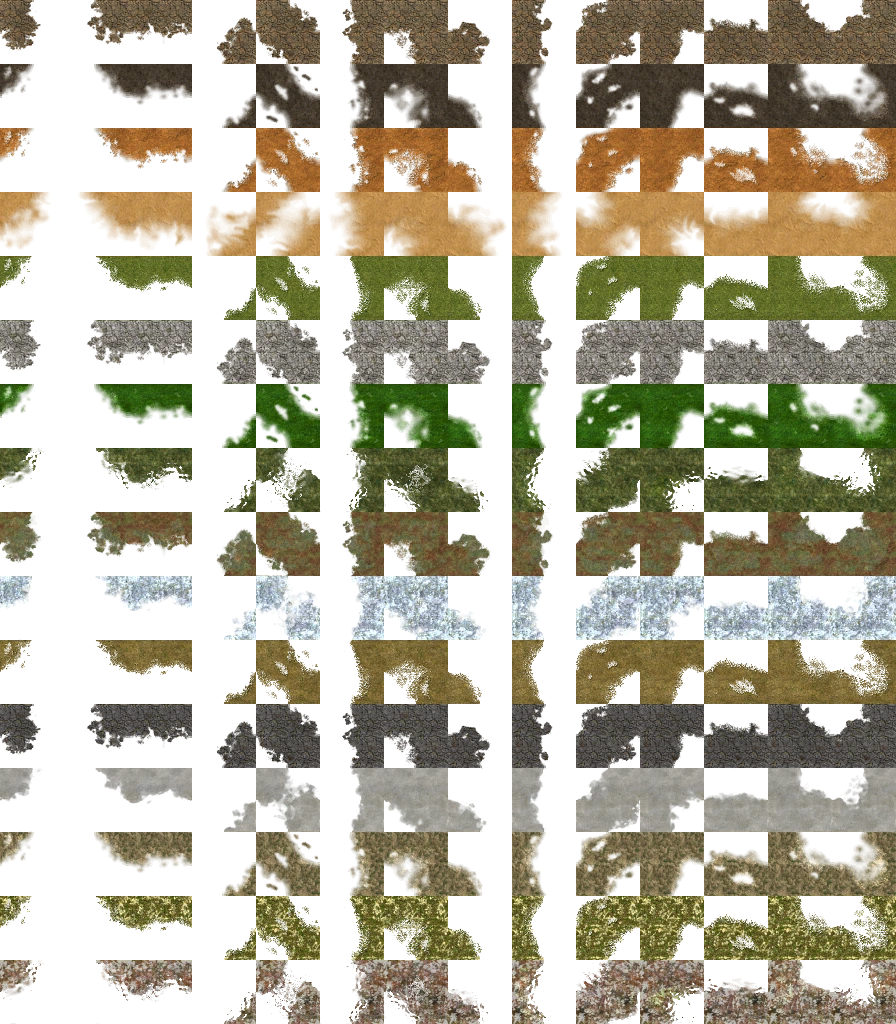
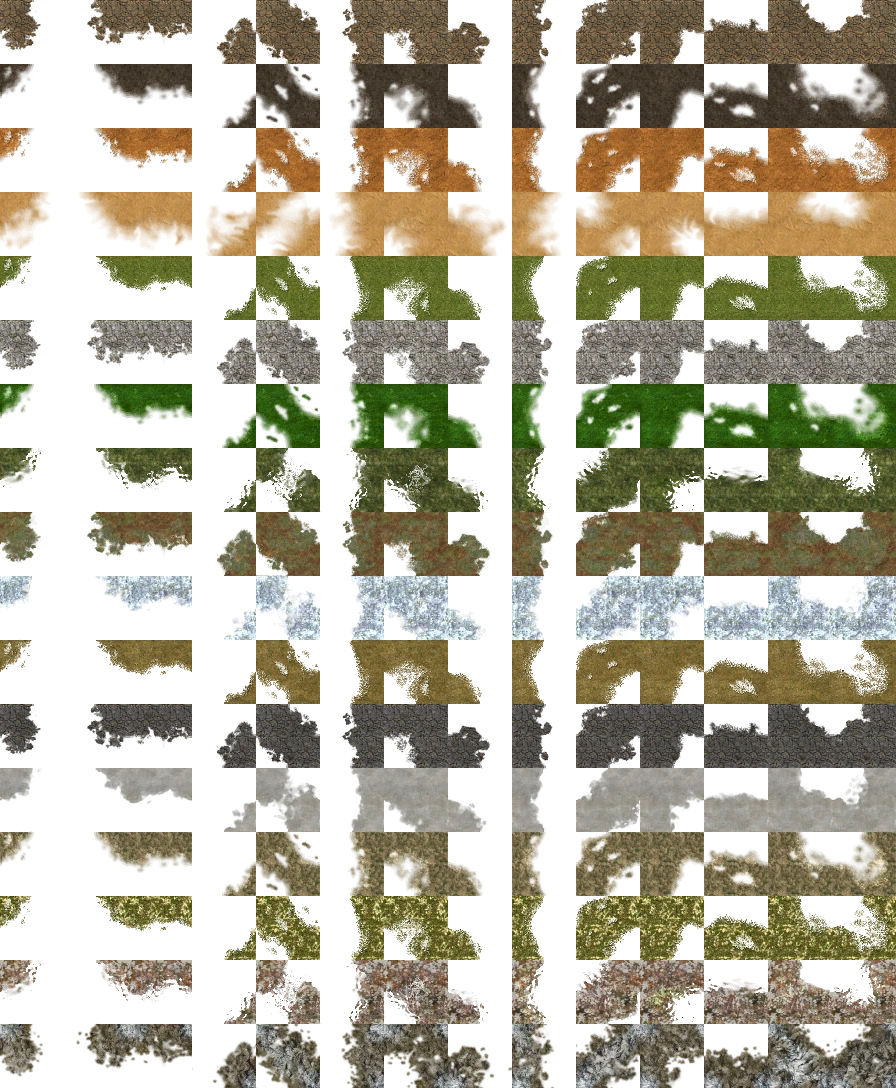
feat(web): bake PEAK as a blend layer; measure HILL out
Civ4 authors both relief types as terrain layers with their own blend art, and
both use the identical 14-cell land table - so neither needs new machinery.
They are not the same kind of art, though, and that decides what to do with
each. reliefArtEntries reads them off CIV4ArtDefines_Terrain.xml and shapes
them like terrain-art.json rows; the key is `PEAK`, matching Plot.plotType, so
a caller indexes it without a translation table.

PEAK is baked, as a 17th row. LayerOrder 100 - above every terrain in the game
including the eight water keys at 50-71. PeakBlend.dds is 1024x1024 (4x4 of
256px, the highest-resolution blend art in the tree) and its detail is
IceDetail: Civ4 paints a peak as snow-capped rock that REPLACES the ground
rather than tinting it. Cleanest corner mask measured anywhere - set corners
254.9, clear 0.7, against LushBlend's 240.4/0.5; interior cell alpha 246-254.

This is what will put real mountain ground under the billboard. At LayerOrder
100 a PEAK plot wins its own four corners and takes the interior cell, and its
neighbours take its blend cells, so the rock spills outward the way the
sprite's base sits.

HILL is deliberately excluded, and the measurement is the reason.
ART_DEF_TERRAIN_HILL exists with the same table and LayerOrder 30, but
HillBlend.dds is not a corner mask: mean alpha per cell runs 28-102 and its
INTERIOR cell reaches only 102 of 255, where PEAK's is 254 and every land
[…]

diff --git a/docs/land-blend-plan.md b/docs/land-blend-plan.md
@@ -129,8 +129,10 @@ Two findings worth keeping:
 
 - **`textures/iceblend.dds` is 512×1024 (128px cells)**, while `TERRAIN_PERMAFROST` binds the 64px
   `textures/land/IceBlend.dds`. A single-terrain resolution upgrade is available if it ever matters.
-- **`peakblend.dds` is 1024×1024 — 256px cells**, the highest in the tree. Unused: PEAK is relief and
-  a prop, not one of the `KEEP` terrains.
+- **`peakblend.dds` is 1024×1024 — 256px cells**, the highest in the tree. ~~Unused: PEAK is relief
+  and a prop, not one of the `KEEP` terrains.~~ **Wrong — it is now baked; see §5.3.** It is not one
+  of *our* `KEEP` terrains, but Civ4 gives it a full art define, the same 14-cell table, and
+  LayerOrder 100 — the top of the game.
 
 **Why the 64px ceiling is not the constraint it appears to be.** The base sheet supplies low-frequency
 colour and the corner SHAPE; all the visible grain comes from the `<Detail>` texture, and **40 of
@@ -255,6 +257,45 @@ the land sheet. Baking water into this sheet would draw the same vertex twice, f
   never resolve, so "has gaps ⇒ stale" would thrash forever — exactly the trap §6 records. The caller
   stores the keys and re-bakes only when one *resolves*, which is the `_tshoreGaps` contract.
 
+### 5.3 Relief: PEAK is a blend layer, HILL is a wash
+
+Relief is `Plot.plotType` (FLAT/HILL/PEAK), orthogonal to the terrain key — a 3D prop since P4b and a
+hand-rolled recolour in the 2D bake (`plots.mjs`: HILL `×1.14 + 8`, PEAK averaged toward 150,152,158).
+Civ4 authors both as terrain layers with their own blend art, and **both use the identical 14-cell
+land table**, so neither needs new machinery. But they are not the same kind of art, and the
+difference decides what to do with each.
+
+**PEAK — baked, as a 17th row.** LayerOrder **100**, above every terrain in the game including the
+eight water keys at 50–71. `PeakBlend.dds` is 1024×1024 (4×4 of 256px, the highest-resolution blend
+art in the tree) and its detail is **IceDetail** — Civ4 paints a peak as snow-capped rock that
+REPLACES the ground rather than tinting it. Its corner mask is the cleanest measured anywhere: set
+corners **254.9**, clear corners **0.7** (LushBlend, the reference, is 240.4/0.5). Its interior cell
+is alpha 246–254.
+
+This is what puts real mountain ground under the billboard: at LayerOrder 100 a PEAK plot wins all
+four of its own corners, so it takes the interior cell, and its neighbours take its blend cells —
+the rock spills outward the way the sprite's base sits. That should let §8's `PEAK_GROUP.baseFade`
+question be reopened, since the billboard would then meet peak ground instead of grassland.
+
+The 256px cells sample down to the sheet's 64 and lose nothing visible — the blend pass draws at
+12–32 px/plot, so even 64 is oversampled 2–5× (same argument as §2's LoD note).
+
+**HILL — deliberately excluded, and the measurement is the reason.** `ART_DEF_TERRAIN_HILL` exists
+with the same table and LayerOrder 30, but `Land/HillBlend.dds` is **not a corner mask**. Mean alpha
+per cell runs 28–102, and its INTERIOR cell reaches only **102 of 255** where PEAK's is 254 and every
+land terrain's is opaque. Scored like every other atlas it binds **0 of 14** configs — its "set"
+corners peak at alpha 25. Civ4 authors a hill as a translucent **wash over whatever terrain the plot
+already has** (a grassland hill is still grassland), where a peak replaces the ground.
+
+So HILL must **not** own corners either. A hill plot's ground *is* its base terrain, so it should keep
+contributing that terrain to the ownership contest exactly as it does today. Giving HILL its own
+LayerOrder 30 in the contest would let it suppress a lower neighbour's blend while having nothing to
+draw — strictly worse than the present behaviour. `terrainLayer` therefore carries `PEAK: 100` and no
+`HILL` key at all.
+
+What HILL should get instead is its authored wash as a **ground overlay**, replacing the invented
+`×1.14 + 8` brightening — see §8.
+
 ## 6. Traps
 
 - **The province canvas is also the 3D mesh texture** (`terrain3d.mjs` reads `p._tcanvas`), so this
@@ -293,8 +334,18 @@ the land sheet. Baking water into this sheet would draw the same vertex twice, f
 
 ## 8. Loose ends from the same session
 
+- **The HILL wash is authored art we are not using.** `Land/HillBlend.dds` interior cell (alpha ~102)
+  × `Land/HillDetail.dds` is Civ4's real hill treatment: a translucent overlay composited over the
+  plot's own ground. Today `plots.mjs` fakes it with `r*1.14 + 8`, an invented brightening — exactly
+  what `use-authored-art-not-substitutes` forbids. Baking the interior cell as an RGBA wash tile and
+  compositing it over a HILL plot's ground at its authored alpha would retire that. Note it is a
+  GROUND overlay, not a blend row (§5.3), and that 3D already has the other half of Civ4's hill —
+  `heightfield.mjs` raises the mesh. PEAK's own invented recolour (averaging toward 150,152,158) is
+  retired by §5.3 instead.
 - `PEAK_GROUP.baseFade` is 0.18. It removed the hard bottom edge on the mountain billboards, but a
-  faint boundary is still visible on the largest masses — 0.24 is worth trying.
+  faint boundary is still visible on the largest masses — 0.24 is worth trying. **Re-open this after
+  phase 3:** with PEAK baked as a blend layer (§5.3) the billboard will stand on real peak ground
+  rather than on grassland, which may make the fade unnecessary rather than merely better tuned.
 - Coast config **0** (every corner touching land — one-plot lakes, one-plot-wide channels) has no
   table entry and draws no tile, so those show plain water: 78 of 3,000 shoreline plots.
 - The polar sea roughly doubled in brightness when `SEA_ANCHOR` was removed (`13801f07`) and still has
